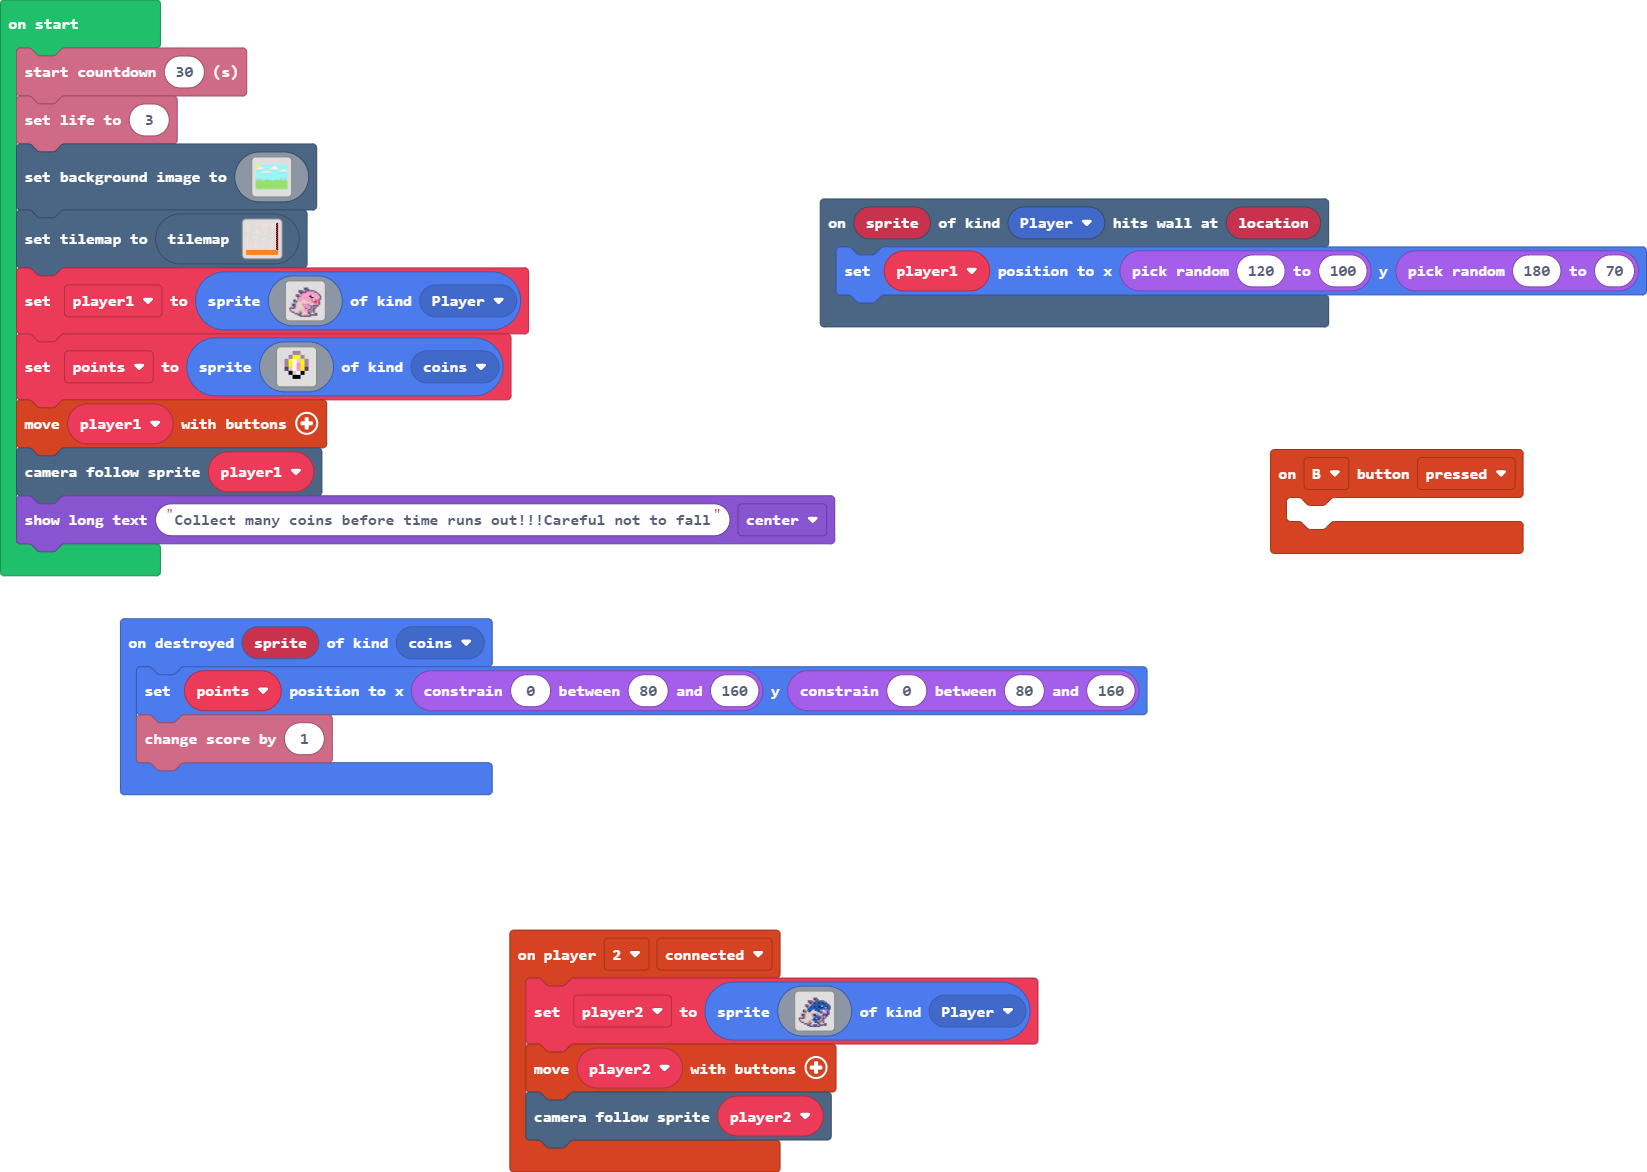
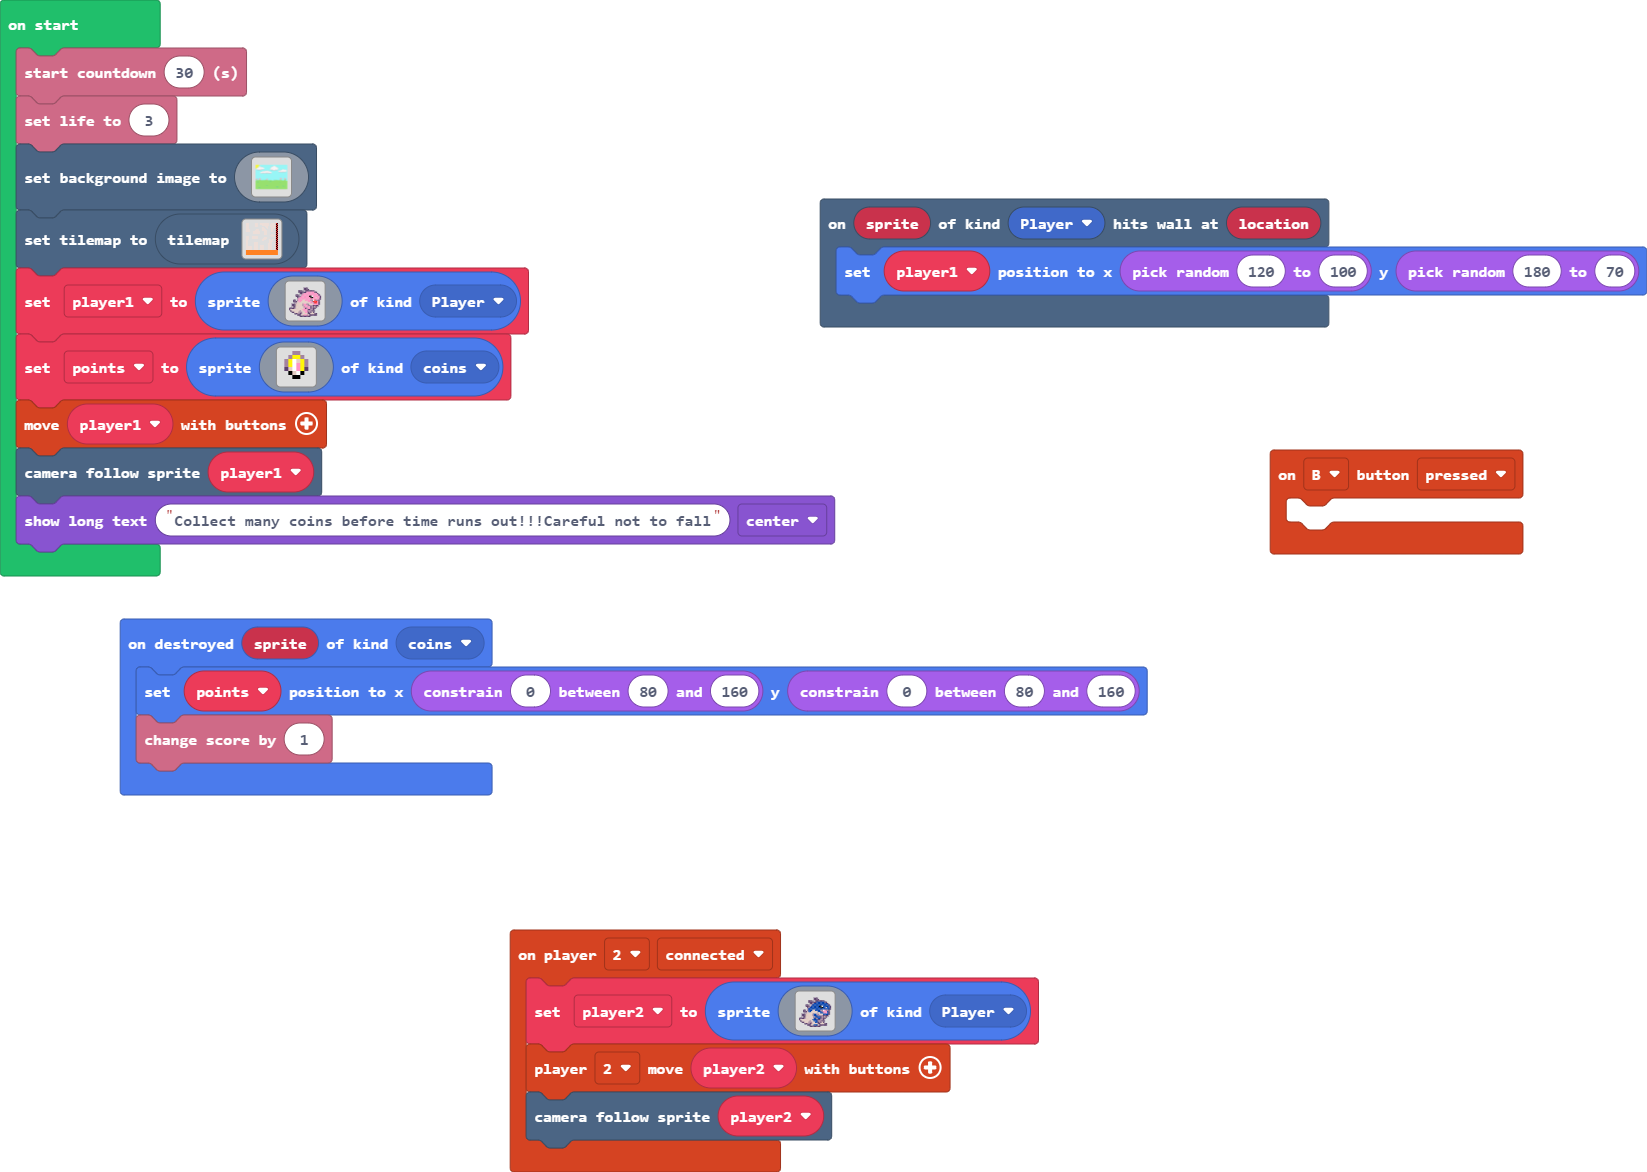
Update main.blocks, main.ts

diff --git a/main.ts b/main.ts
@@ -38,7 +38,7 @@ controller.player2.onEvent(ControllerEvent.Connected, function () {
         ......cccdd888dcccccc...
         ........cccccccc........
         `, SpriteKind.Player)
-    controller.moveSprite(player2)
+    controller.player2.moveSprite(player2)
     scene.cameraFollowSprite(player2)
 })
 let player2: Sprite = null
